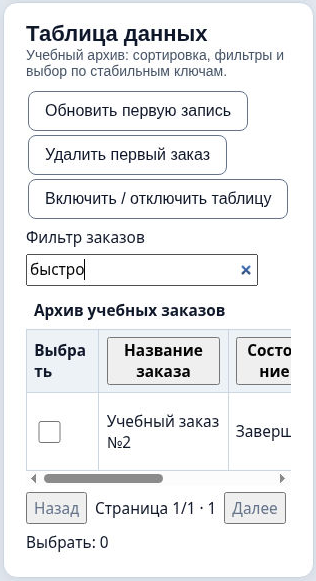
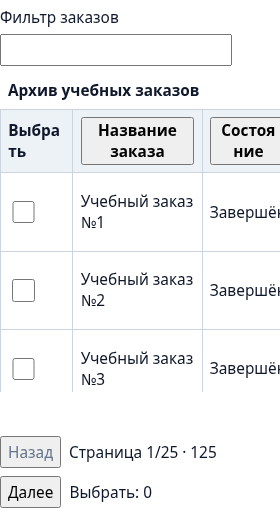
fix: keep data table loading from shifting pointer targets

Changed region(s): [[0.0, 0.0, 1.0, 1.0], [0.1143, 0.6835, 0.2, 0.7767], [0.7143, 0.7767, 0.7429, 0.8078]]

diff --git a/src/test/e2e/adaptive-layout.spec.js b/src/test/e2e/adaptive-layout.spec.js
@@ -121,3 +121,84 @@ test.describe("adaptive controls on a touch viewport", () => {
         await expect(group.getByRole("status")).toHaveText("Макет проверен.");
     });
 });
+
+for (const mode of ["during", "before"]) {
+    test(`controlled table completion ${mode} pointer press`, async ({ page }, info) => {
+        let release;
+        const gate = new Promise(resolve => {
+            release = resolve;
+        });
+        let held;
+        const ready = new Promise(resolve => {
+            held = resolve;
+        });
+        await page.route("**/*", async route => {
+            if (route.request().method() !== "POST") return route.continue();
+            const response = await route.fetch();
+            const data = await response.json();
+            if (
+                data.updates?.some(
+                    u =>
+                        u.action === "set data table" &&
+                        u.snapshot?.caption === "Архив учебных заказов" &&
+                        u.snapshot.state === "ready"
+                )
+            ) {
+                held();
+                await gate;
+            }
+            await route.fulfill({ response });
+        });
+        await page.setViewportSize({ width: 1280, height: 780 });
+        await page.goto("/all-widgets");
+        await page
+            .getByRole("region", { name: "Архив учебных заказов", exact: true })
+            .scrollIntoViewIfNeeded();
+        await ready;
+        const button = page.getByRole("button", { name: "Сменить порог формы", exact: true });
+        const layout = form(page).locator(".widgets-form-layout");
+        await field(page, title).fill("Бумага");
+        await button.scrollIntoViewIfNeeded();
+        await page.evaluate(() => {
+            window.probe = [];
+            for (const type of ["mousedown", "mouseup", "click", "blur"])
+                document.addEventListener(
+                    type,
+                    e =>
+                        window.probe.push({
+                            type,
+                            tag: e.target.tagName,
+                            text: e.target.textContent?.slice(0, 70),
+                            x: e.clientX,
+                            y: e.clientY
+                        }),
+                    true
+                );
+        });
+        const before = await button.boundingBox();
+        const x = before.x + before.width / 2,
+            y = before.y + before.height / 2;
+        if (mode === "during") {
+            await page.mouse.move(x, y);
+            await page.mouse.down();
+        }
+        release();
+        await expect(
+            page.getByRole("cell", { name: "Учебный заказ №1", exact: true })
+        ).toBeAttached();
+        const after = await button.boundingBox();
+        if (mode === "during") await page.mouse.up();
+        else await button.click();
+        const events = await page.evaluate(() => window.probe);
+        console.log(JSON.stringify({ mode, before, after, events }));
+        await info.attach("controlled-evidence", {
+            body: JSON.stringify({ mode, before, after, events }, null, 2),
+            contentType: "application/json"
+        });
+        expect(Math.abs(after.y - before.y)).toBeLessThanOrEqual(1);
+        expect(
+            events.filter(e => e.type === "click" && e.text === "Сменить порог формы")
+        ).toHaveLength(1);
+        await expect(layout).not.toHaveAttribute("data-label-columns", "");
+    });
+}

diff --git a/src/main/html/style.css b/src/main/html/style.css
@@ -445,7 +445,9 @@ button[aria-label]:has(> img):focus-visible {
 
 .widgets-data-table-scroll {
     max-inline-size: 100%;
-    overflow-x: auto;
+    block-size: var(--widgets-data-table-height, 20rem);
+    overflow: auto;
+    scrollbar-gutter: stable;
 }
 
 .widgets-data-table table {
@@ -513,8 +515,10 @@ button[aria-label]:has(> img):focus-visible {
     color: #64748b;
 }
 
-.widgets-data-table [role="status"]:not(:empty) {
+.widgets-data-table [role="status"] {
     display: block;
+    box-sizing: border-box;
+    min-block-size: 2.4rem;
     padding: 0.45rem;
 }
 

diff --git a/docs/DATA_TABLE.ru.md b/docs/DATA_TABLE.ru.md
@@ -50,3 +50,5 @@ table.onSelect(keys -> selectionChanged(keys));
   на текст ячейки, 96 на ключ, 120 на фильтр, 512 выбранных ключей.
   Произвольные дочерние виджеты, автоматическая запись данных и
   виртуализация не предусмотрены. См. [живой пример](WIDGET_GALLERY.ru.md#data-table).
+
+Область строк имеет постоянную высоту `20rem` и внутреннюю прокрутку: загрузка и смена страниц не сдвигают элементы ниже таблицы. Высоту можно изменить CSS-переменной `--widgets-data-table-height`. Место под строку состояния резервируется и при отсутствии сообщения.

diff --git a/docs/DATA_TABLE.md b/docs/DATA_TABLE.md
@@ -51,3 +51,5 @@ Limits: 1–32 rows per page, 1–8 columns, 160 UTF-16 units per cell,
 96 per key and 120 for the filter. Selection retains up to 512 keys. There
 are no arbitrary child widgets in cells, no automatic database writes, and
 no virtualization. See the [browser gallery](WIDGET_GALLERY.ru.md#data-table).
+
+The row viewport has a fixed height of `20rem` with internal scrolling, so loading and page changes do not shift controls below the table. Override `--widgets-data-table-height` to customize it. The status line reserves space even when empty.
